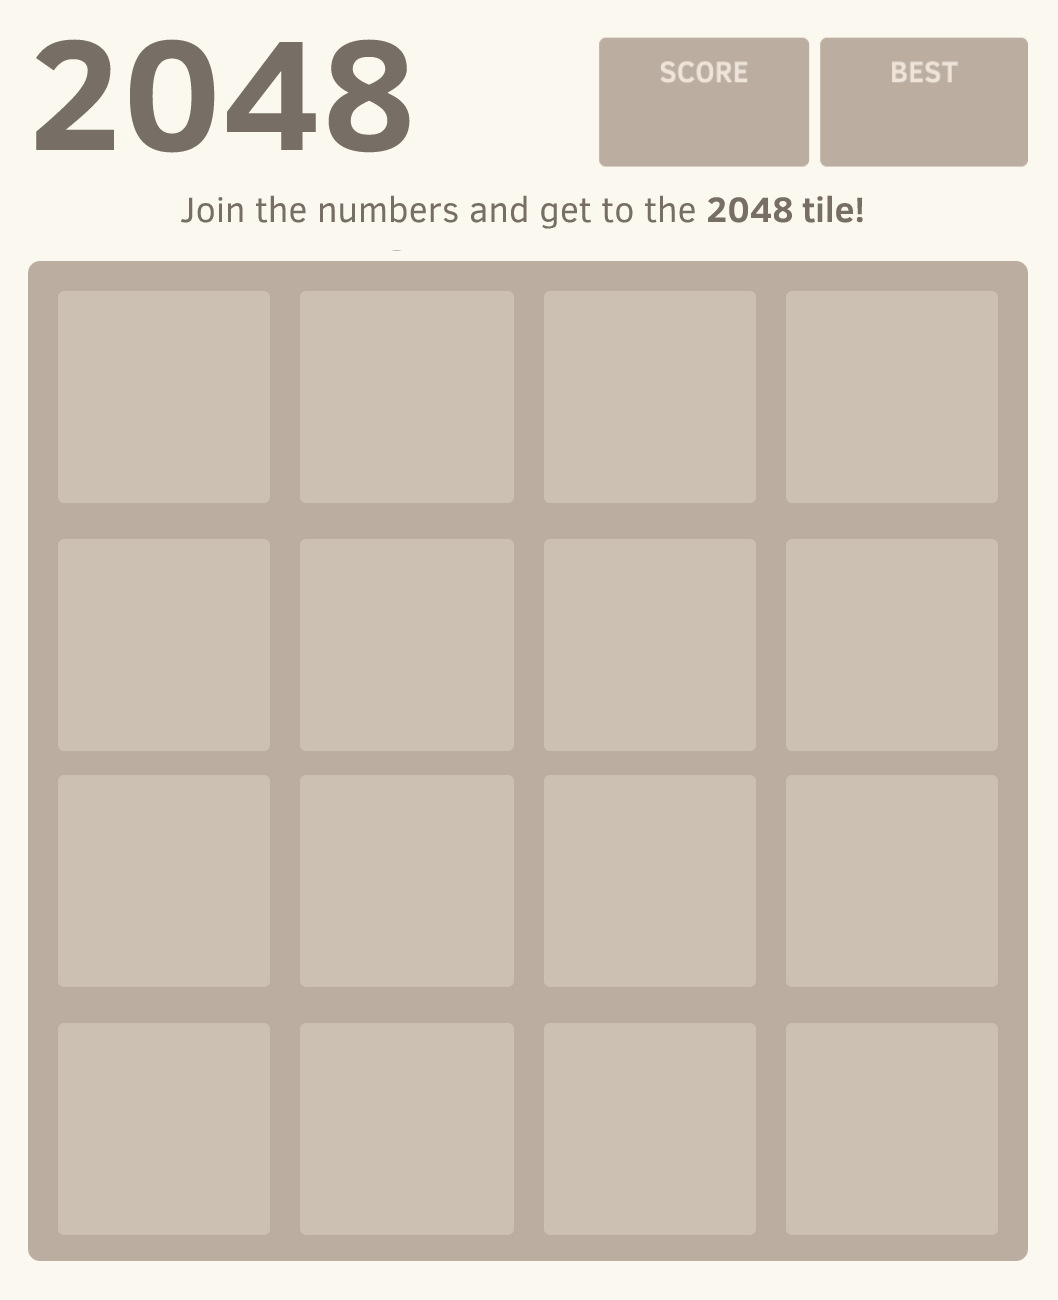
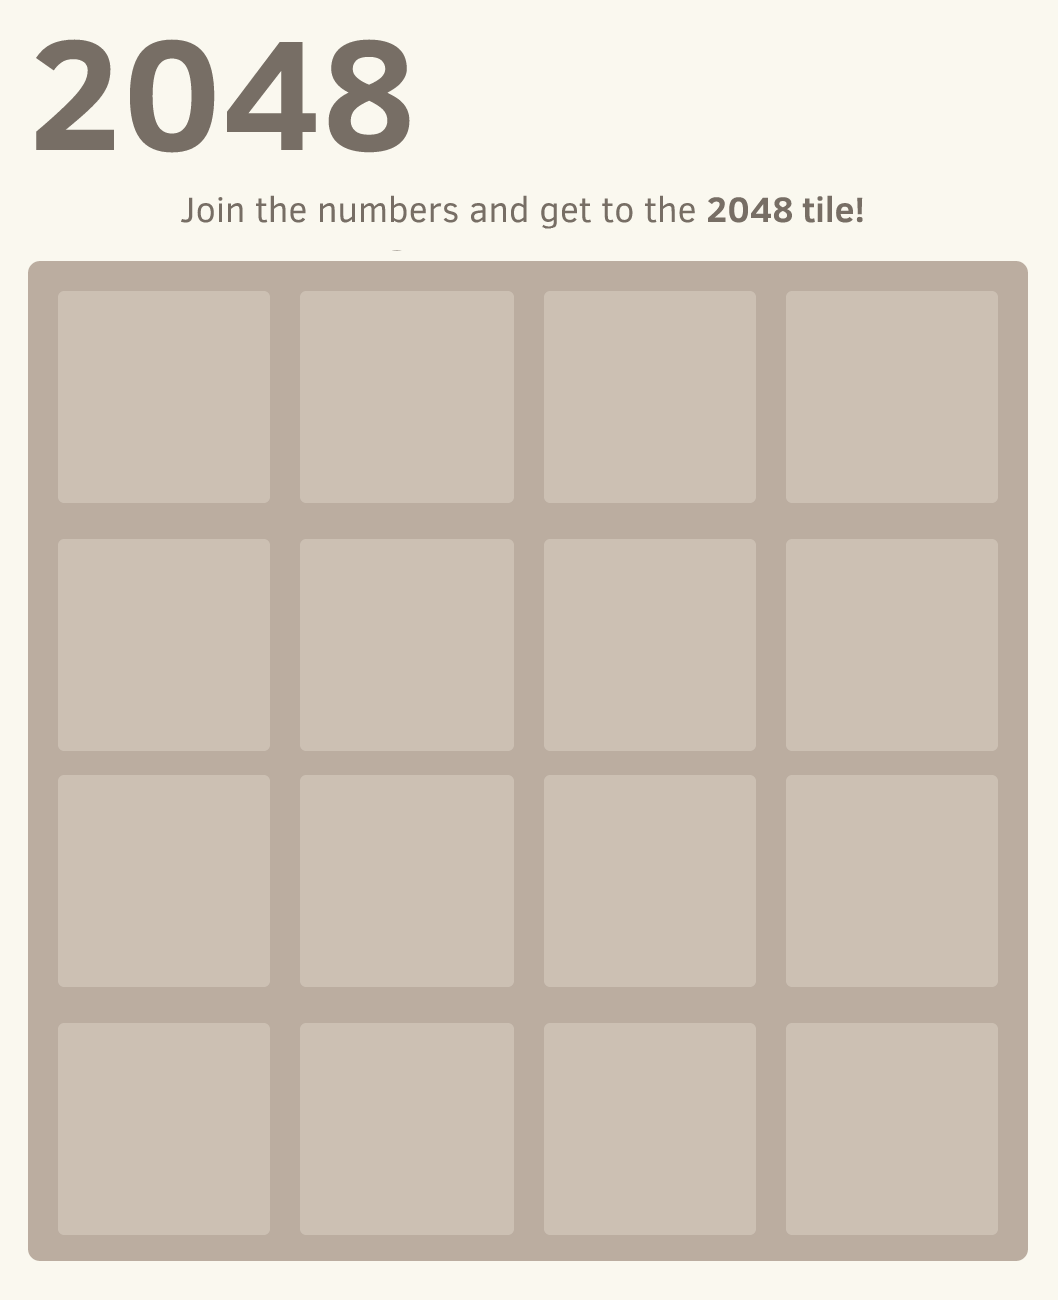
update

Changed region(s): [[0.5614, 0.0308, 0.9981, 0.1538]]

diff --git a/Utils/generateGameBoard.py b/Utils/generateGameBoard.py
@@ -15,12 +15,14 @@ def generateGameBoard(grid, score):
                 gameboard.paste(block, coordinates, block)
     
     # Add score
+    scoreImage = Image.open(f"Assets/score.png").convert('RGBA')
     message = str(score)
     # myFont = ImageFont.truetype(font= "Utils/arial.ttf", size= 48)
-    draw = ImageDraw.Draw(gameboard)
+    draw = ImageDraw.Draw(scoreImage)
     w, h = draw.textsize(message)
-    W, H = (808, 165)
+    W, H = scoreImage.size
     draw.text(((W-w)/2, (H-h)/2), message, (255,255,255))
+    gameboard.paste(scoreImage, (599, 37), scoreImage)
     # (599, 808), (91, 165)
     # Center => https://stackoverflow.com/questions/1970807/center-middle-align-text-with-pil
 
